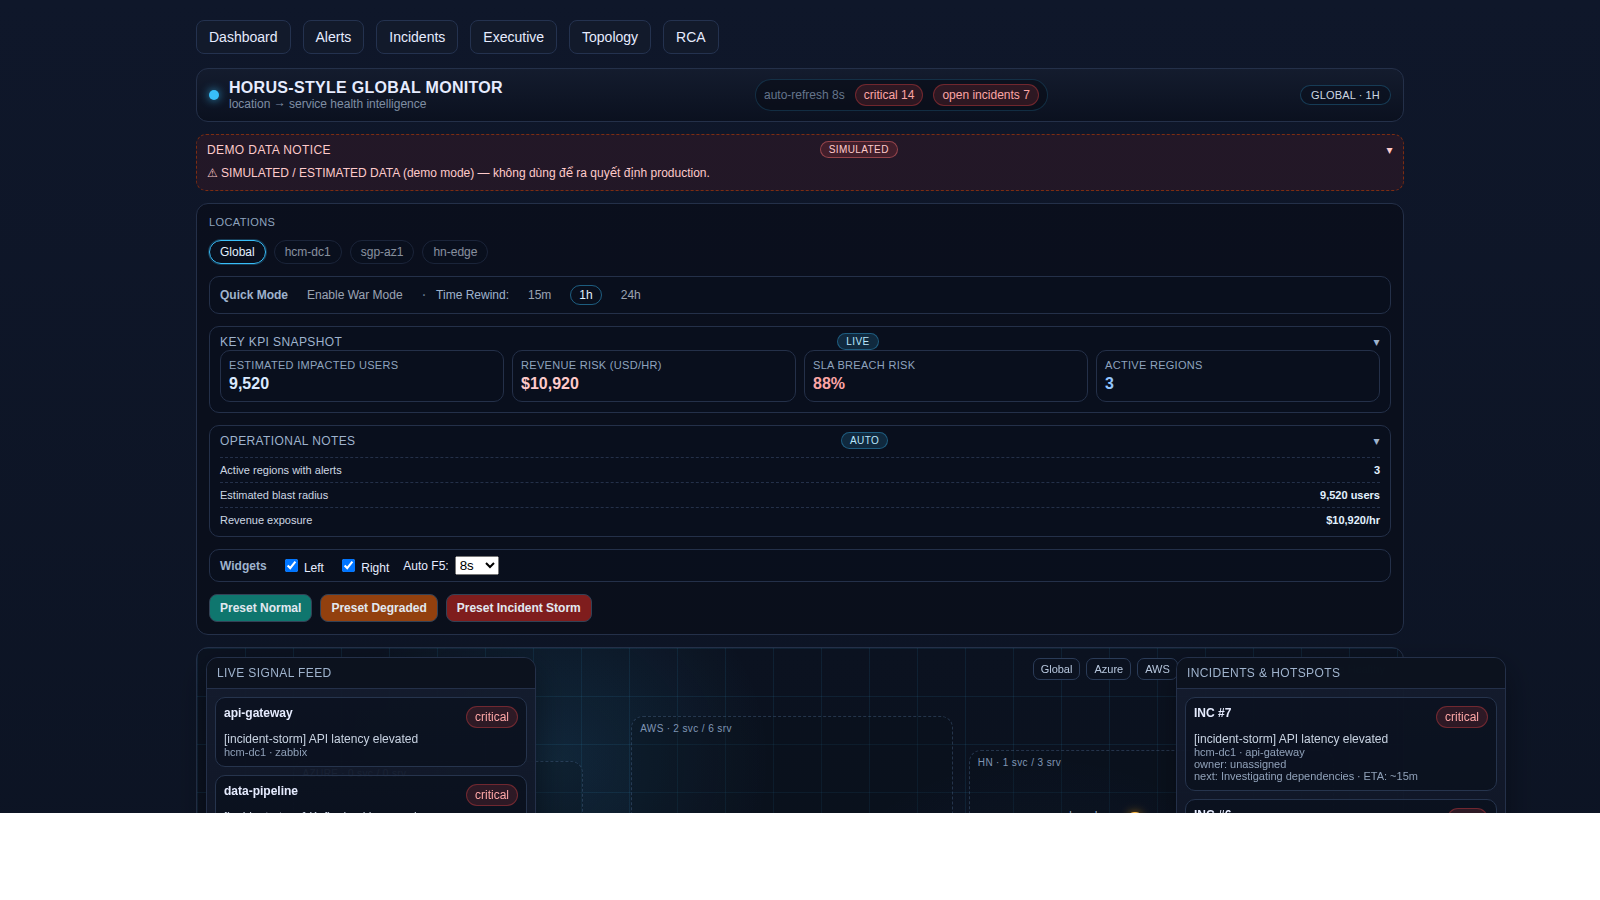
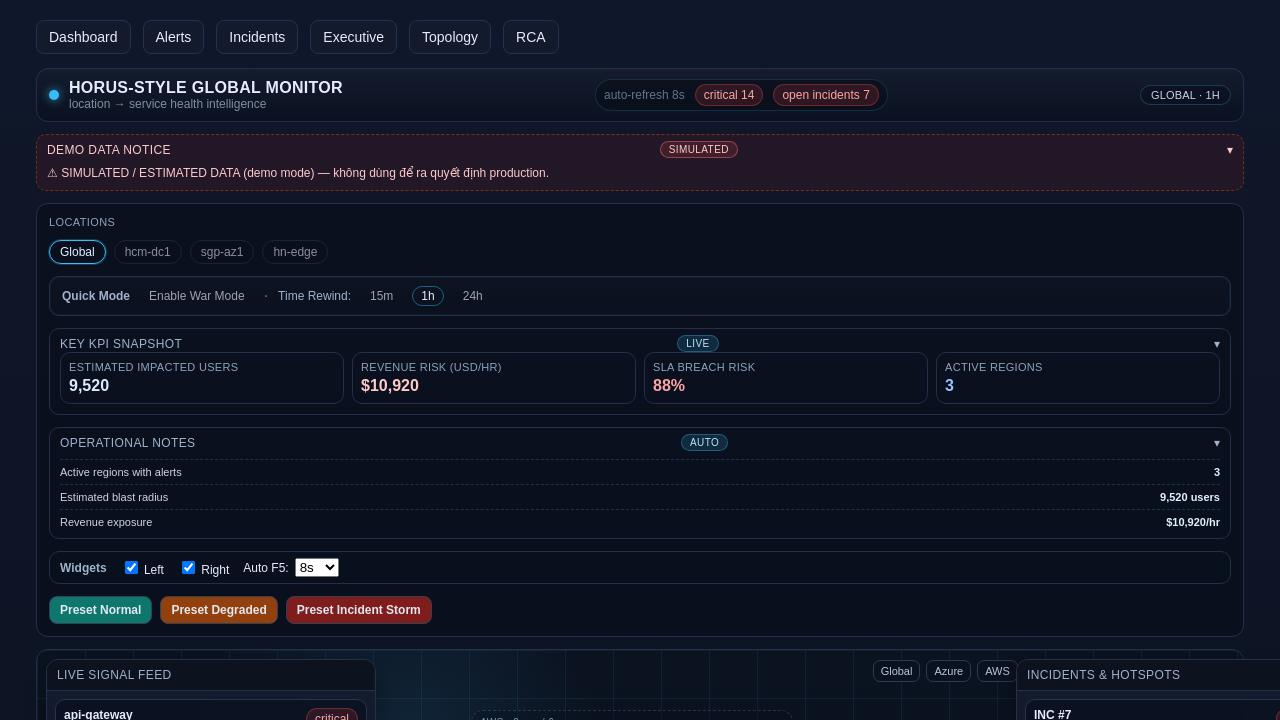
Refine quick mode bar spacing

diff --git a/worldmonitor-hybrid/web/app/home.module.css b/worldmonitor-hybrid/web/app/home.module.css
@@ -123,12 +123,14 @@
 .quickBar {
   display: flex;
   gap: 10px;
+  row-gap: 6px;
   flex-wrap: wrap;
   align-items: center;
   border: 1px solid #243049;
   border-radius: 10px;
-  padding: 8px 10px;
-  background: rgba(10,16,30,.75);
+  padding: 9px 12px;
+  background: linear-gradient(180deg, rgba(14,20,34,.9), rgba(10,16,30,.75));
+  box-shadow: inset 0 0 0 1px rgba(56,189,248,.05);
 }
 
 .quickLabel {

diff --git a/worldmonitor-hybrid/CHANGELOG.md b/worldmonitor-hybrid/CHANGELOG.md
@@ -3,6 +3,7 @@
 ## 2026-03-07
 
 ### Changed
+- Home: tinh chỉnh Quick Mode bar (padding/gradient + row gap) để nhóm control rõ ràng và dễ scan hơn.
 - Home: thêm pill ngữ cảnh hiển thị nhanh location/time range/war mode ở topbar để scan trạng thái nhanh hơn.
 - Home: chuyển Key KPI Snapshot thành panel có toggle ẩn/hiện để bố cục gọn hơn khi cần tập trung.
 - Home: thêm indicator mũi tên cho các panel toggle để biết trạng thái đang mở/đóng khi quét nhanh.
